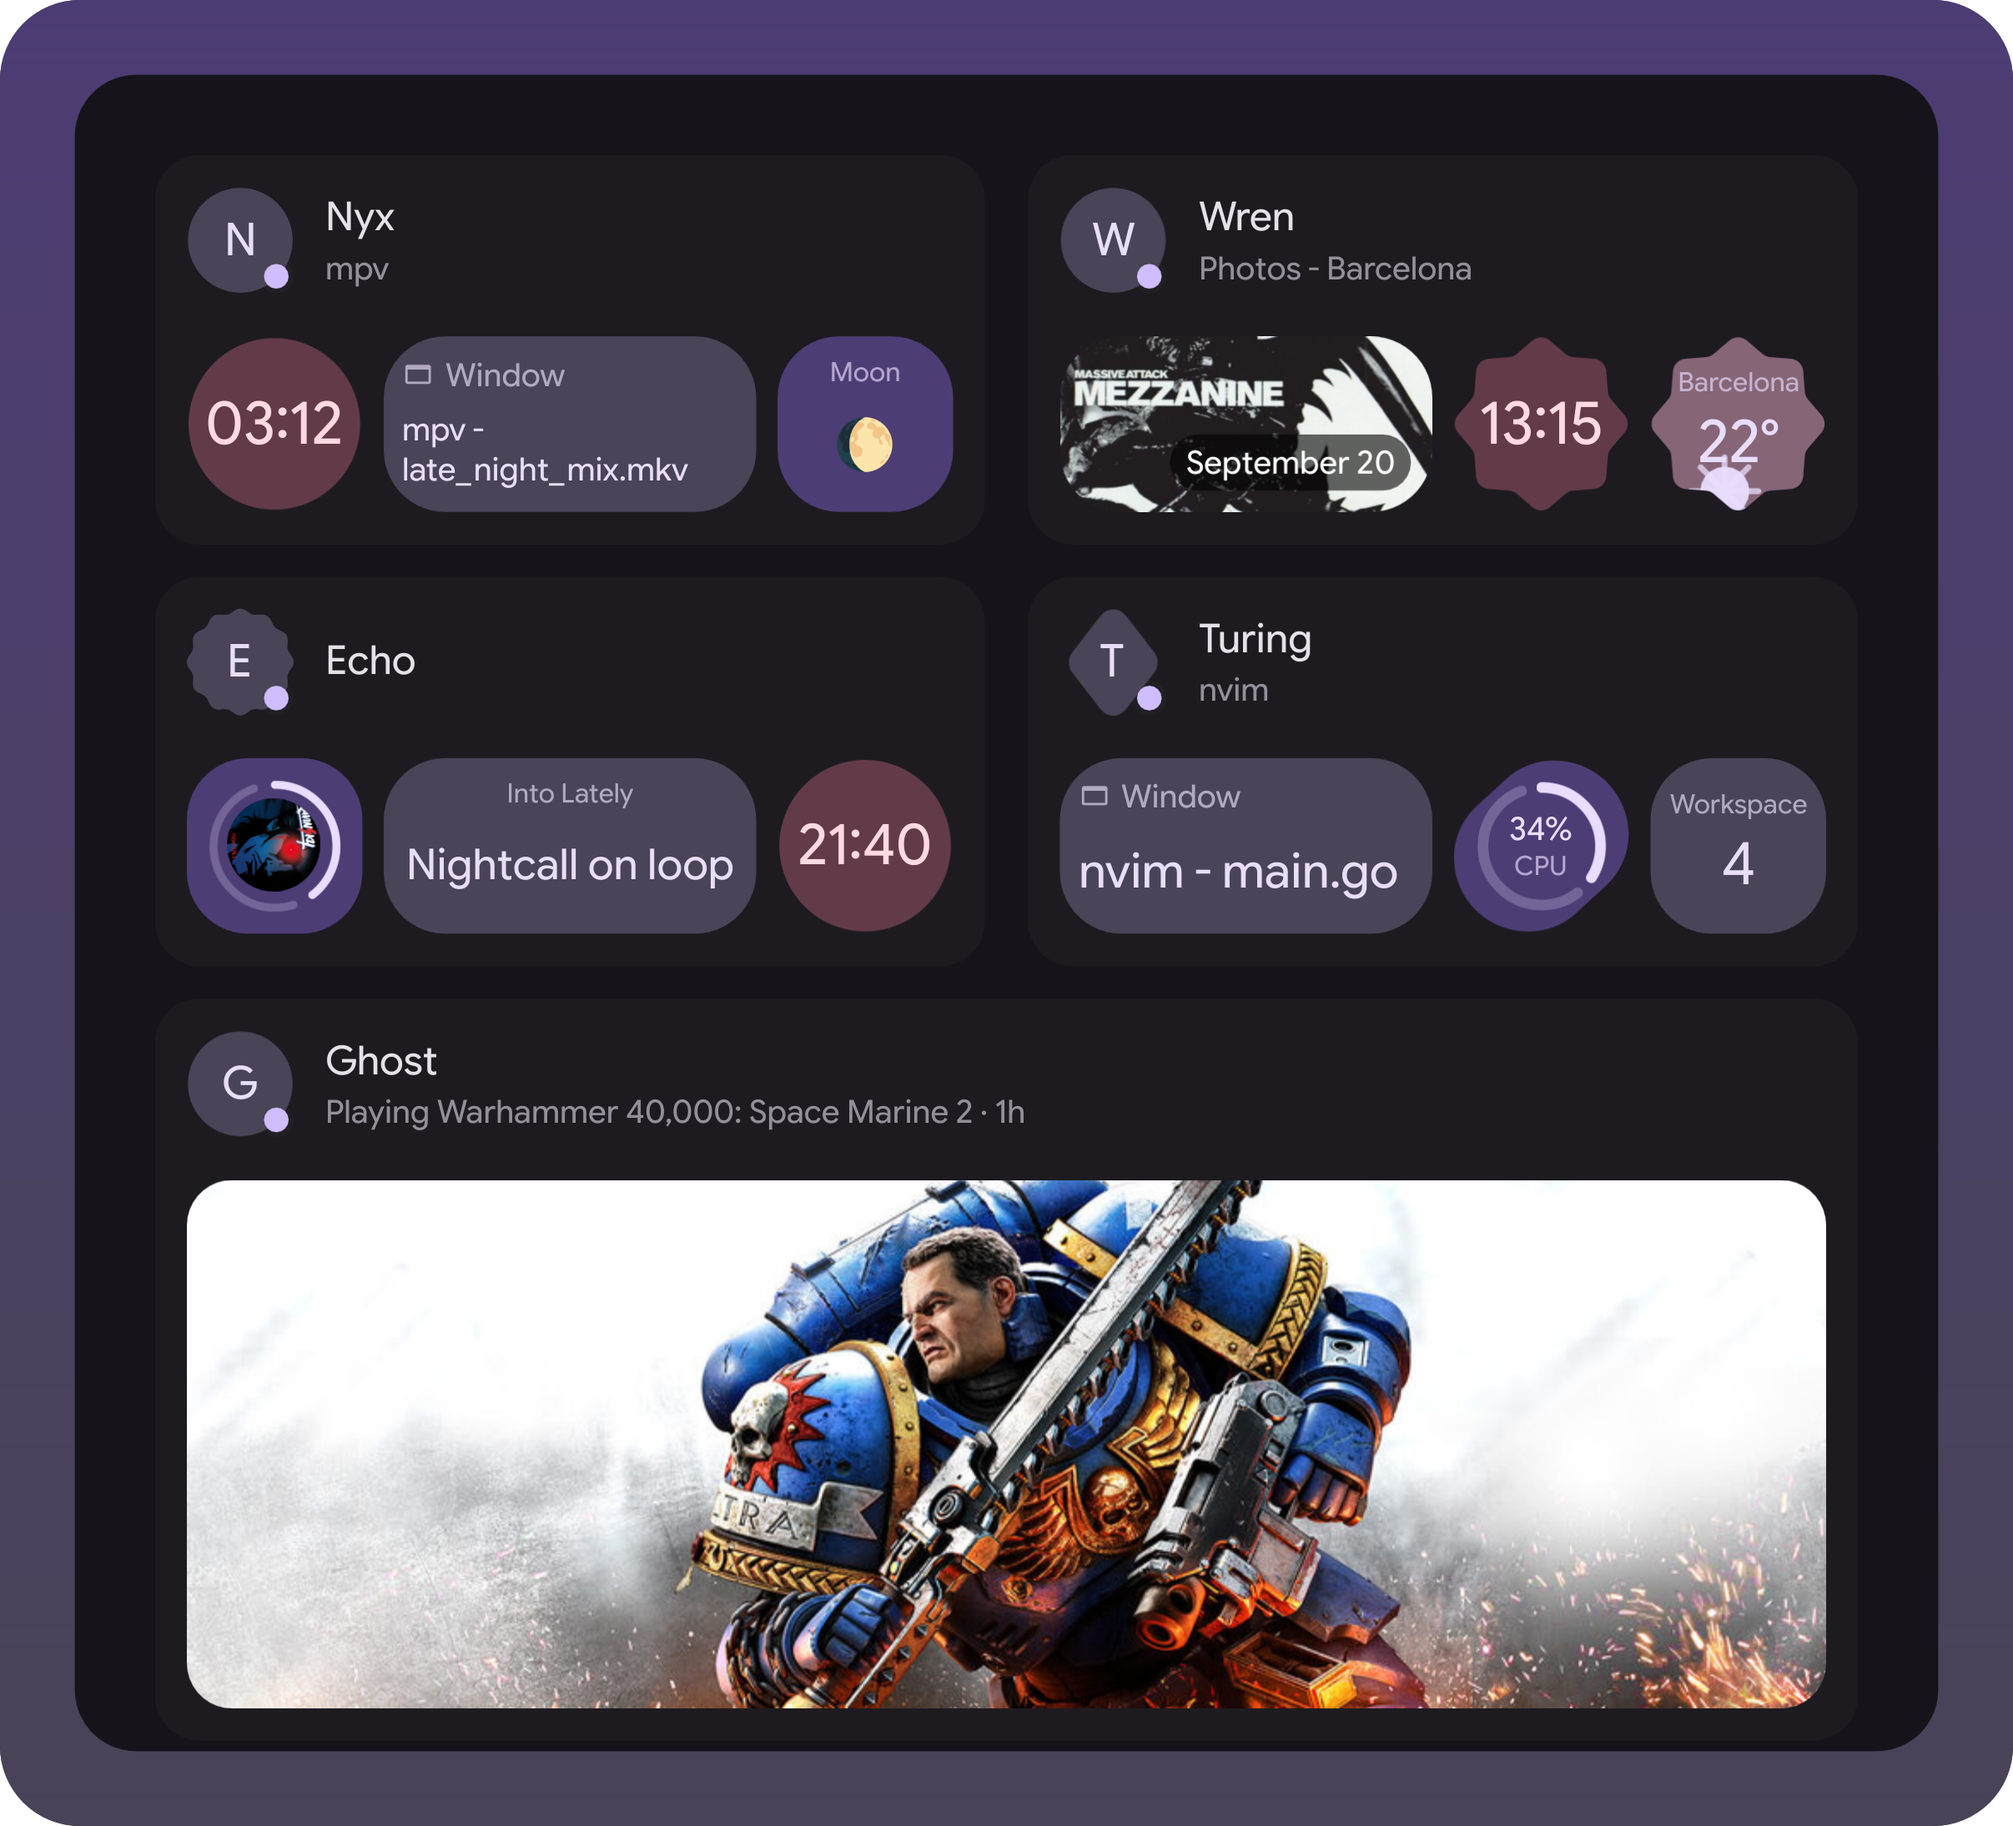
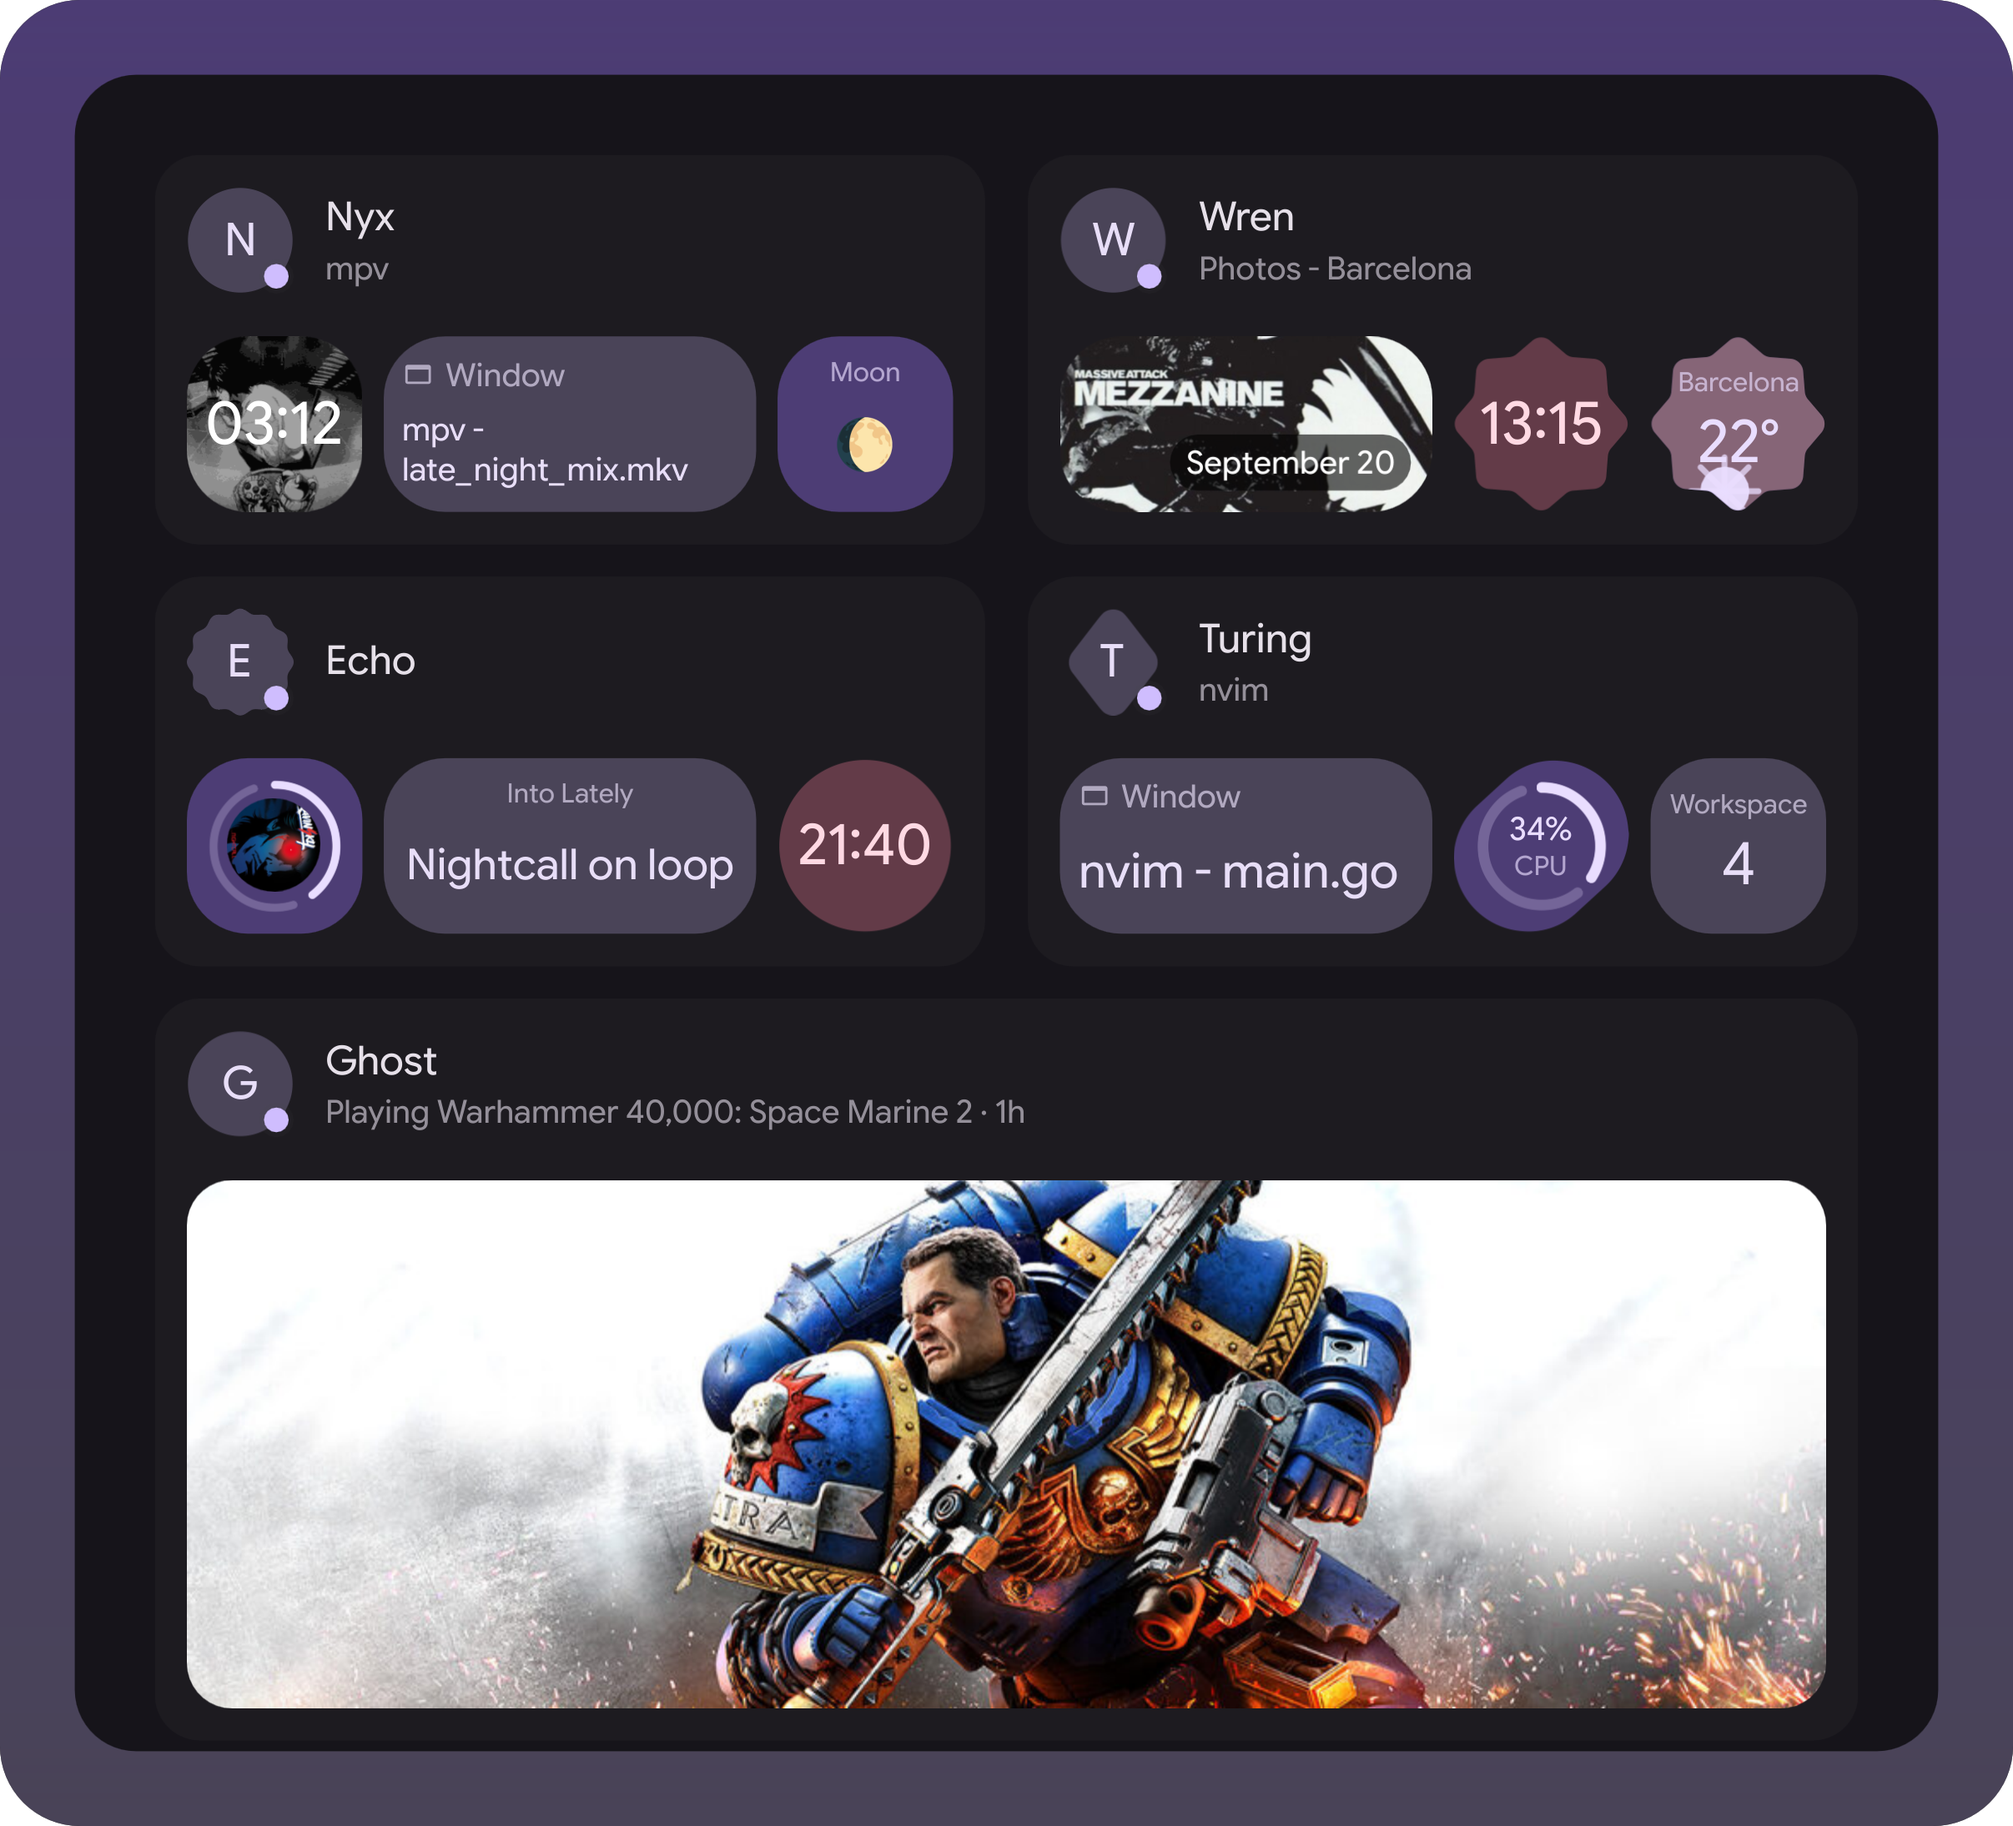
weather: lightning pinned to an animation phase strikes on the same frame every render
The readme gif swaps its rain tile for a cold thunderstorm, and the hero's
night owl clock sits over a GIF background.

Changed region(s): [[0.0932, 0.1864, 0.1865, 0.2796]]

diff --git a/WeatherSky.qml b/WeatherSky.qml
@@ -11,8 +11,9 @@ Item {
     required property color tint
     required property color contentColor
     required property bool running
-    // -1 leaves the rain on its own wall-clock loop; set to pin every drop to that
-    // many elapsed ms, for a frame that must render the same on every run.
+    // -1 leaves the rain and lightning on their own wall-clock loops; set to pin every
+    // drop and strike to that many elapsed ms, for a frame that must render the same on
+    // every run.
     property real animPhase: -1
 
     // No tile span reaches this sibling of TileWeatherLive, so the 2x1 layout is read
@@ -79,6 +80,30 @@ Item {
     function hash(n) {
         const v = Math.sin(n * 12.9898) * 43758.5453;
         return v - Math.floor(v);
+    }
+
+    readonly property int firstStrikeMs: 900
+    readonly property int flashRiseMs: 70
+    readonly property int flashFallMs: 220
+    readonly property real flashPeak: 0.5
+
+    function strikeGapMs(strike) {
+        return 1800 + sky.hash(strike) * 3000;
+    }
+
+    function pinnedFlashOpacity(phase) {
+        let strikeAt = sky.firstStrikeMs;
+        let strike = 1;
+        while (strikeAt + sky.strikeGapMs(strike) <= phase) {
+            strikeAt += sky.strikeGapMs(strike);
+            strike += 1;
+        }
+        const sinceStrike = phase - strikeAt;
+        if (sinceStrike < 0)
+            return 0;
+        if (sinceStrike < sky.flashRiseMs)
+            return sky.flashPeak * sinceStrike / sky.flashRiseMs;
+        return sky.flashPeak * Math.max(0, 1 - (sinceStrike - sky.flashRiseMs) / sky.flashFallMs);
     }
 
     function arcProgress(pos, start, end) {
@@ -451,7 +476,7 @@ Item {
                     }
 
                     SequentialAnimation on x {
-                        running: sky.running && sky.showsClouds
+                        running: sky.running && sky.showsClouds && sky.animPhase < 0
                         loops: Animation.Infinite
                         NumberAnimation {
                             to: cloud.baseX + sky.width * (0.1 + sky.windKmph * 0.003)
@@ -521,7 +546,7 @@ Item {
         anchors.fill: parent
         color: sky.flashColor
         gradient: sky.wide ? flashGradient : null
-        opacity: 0
+        opacity: sky.showsThunder && sky.animPhase >= 0 ? sky.pinnedFlashOpacity(sky.animPhase) : 0
 
         Gradient {
             id: flashGradient
@@ -541,27 +566,27 @@ Item {
             NumberAnimation {
                 target: flash
                 property: "opacity"
-                to: 0.5
-                duration: 70
+                to: sky.flashPeak
+                duration: sky.flashRiseMs
             }
             NumberAnimation {
                 target: flash
                 property: "opacity"
                 to: 0
-                duration: 220
+                duration: sky.flashFallMs
             }
         }
 
         Timer {
             id: flashTimer
             property int strikes: 0
-            interval: 900
-            running: sky.running && sky.showsThunder
+            interval: sky.firstStrikeMs
+            running: sky.running && sky.showsThunder && sky.animPhase < 0
             repeat: true
             onTriggered: {
                 flashPulse.restart();
                 flashTimer.strikes += 1;
-                flashTimer.interval = 1800 + sky.hash(flashTimer.strikes) * 3000;
+                flashTimer.interval = sky.strikeGapMs(flashTimer.strikes);
             }
         }
     }

diff --git a/demo/DemoWeatherGif.qml b/demo/DemoWeatherGif.qml
@@ -1,10 +1,10 @@
 //@ probe statusphere -g 800x220 -s 1500
 /**
  * Frame source for docs/weather.gif (tests/widget-gif.sh): a sun tile and a
- * rain tile, side by side. `frame` (set via -p after load) drives both:
- * nowMin loops once around the clock over totalFrames, and rainPhase steps
- * WeatherSky's rain through CardTile's skyAnimPhase hook - a plain data
- * change either way, so the same frame always renders the same picture.
+ * thunderstorm tile, side by side. `frame` (set via -p after load) drives both:
+ * nowMin loops once around the clock over totalFrames, and skyPhase steps
+ * WeatherSky's rain and lightning through CardTile's skyAnimPhase hook - a plain
+ * data change either way, so the same frame always renders the same picture.
  */
 import ".."
 import "../CardLayouts.js" as CardLayouts
@@ -19,8 +19,8 @@ Item {
     readonly property int sunriseMin: 390
     readonly property int sunsetMin: 1170
     readonly property int nowMin: Math.round(720 + root.frame * 1440 / root.totalFrames) % 1440
-    readonly property real rainStepMs: 90
-    readonly property real rainPhase: root.frame * root.rainStepMs
+    readonly property real skyStepMs: 90
+    readonly property real skyPhase: root.frame * root.skyStepMs
 
     function weatherValue(temp, code, precip, wind, windDir, nowMin, moonIllum, moonPhase, city) {
         const isDay = nowMin >= root.sunriseMin && nowMin < root.sunsetMin ? 1 : 0;
@@ -42,12 +42,12 @@ Item {
         });
     }
 
-    readonly property var wallTiles: [root.wallTile("arc", "tertiaryContainer"), root.wallTile("rain", "secondaryContainer")]
+    readonly property var wallTiles: [root.wallTile("arc", "tertiaryContainer"), root.wallTile("thunder", "primaryContainer")]
 
     function ingestNow() {
         const fields = {
             "arc": root.weatherValue(18, 113, 0, 6, 180, root.nowMin, 70, "Waxing Gibbous", "Berlin"),
-            "rain": root.weatherValue(14, 302, 3.5, 18, 230, 720, 50, "First Quarter", "Seattle")
+            "thunder": root.weatherValue(7, 389, 6, 22, 230, 720, 50, "First Quarter", "Bergen")
         };
         Statusphere.ingest(JSON.stringify({
             "members": [
@@ -99,7 +99,7 @@ Item {
                 height: root.tileUnit
                 account: Statusphere.accountsById["acc-weather"]
                 tile: tileItem.modelData
-                skyAnimPhase: root.rainPhase
+                skyAnimPhase: root.skyPhase
             }
         }
     }

diff --git a/demo/DemoRoomHero.qml b/demo/DemoRoomHero.qml
@@ -1,7 +1,7 @@
 //@ probe statusphere -g 960x900 -s 2500
 /**
  * The README hero: five friends, each a different shape of the same room -
- * a night owl (clock, window, moon), a music head (spinning vinyl), a
+ * a night owl (clock over a GIF, window, moon), a music head (spinning vinyl), a
  * traveler (a shared photo next to a live weather tile, sun over Barcelona),
  * a coder (cpu ring, workspace number) and a friend just playing a game,
  * cover art and all, on the built-in row nobody had to design. Rows stay
@@ -33,7 +33,17 @@ Item {
                     "active_app": "mpv",
                     "_layout": {
                         "updated_at": root.now,
-                        "row": CardLayouts.packs.row.nightOwl
+                        "row": [
+                            Object.assign({}, CardLayouts.packs.row.nightOwl[0], {
+                                "shape": "default",
+                                "background": {
+                                    "kind": "url",
+                                    "value": root.cover("death-note-l.gif")
+                                }
+                            }),
+                            CardLayouts.packs.row.nightOwl[1],
+                            CardLayouts.packs.row.nightOwl[2]
+                        ]
                     },
                     "custom_fields": ["local_time", "moon"],
                     "local_time": "03:12",

diff --git a/README.md b/README.md
@@ -35,7 +35,7 @@ through the same `ingest` the cli talks to.
 
 <p align="center">
 <img src="docs/weather.gif" width="700"><br>
-<sub>The same live tiles, moving: the sun runs its arc through sunset, past it into night with the moon, and back round to noon, rain keeps falling</sub>
+<sub>The same live tiles, moving: the sun runs its arc through sunset, past it into night with the moon, and back round to noon, a thunderstorm rains and flashes</sub>
 </p>
 
 ## Install
